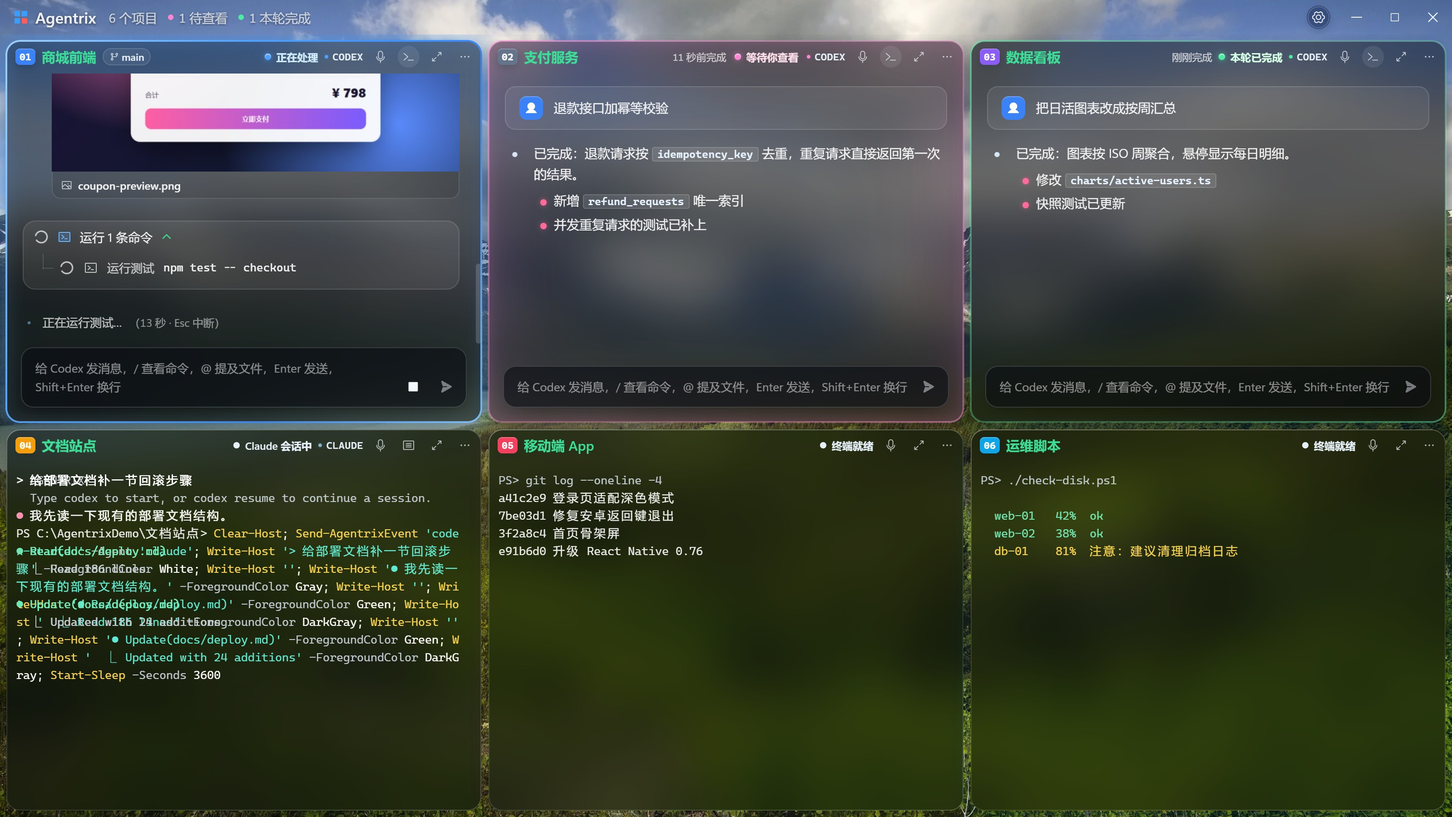
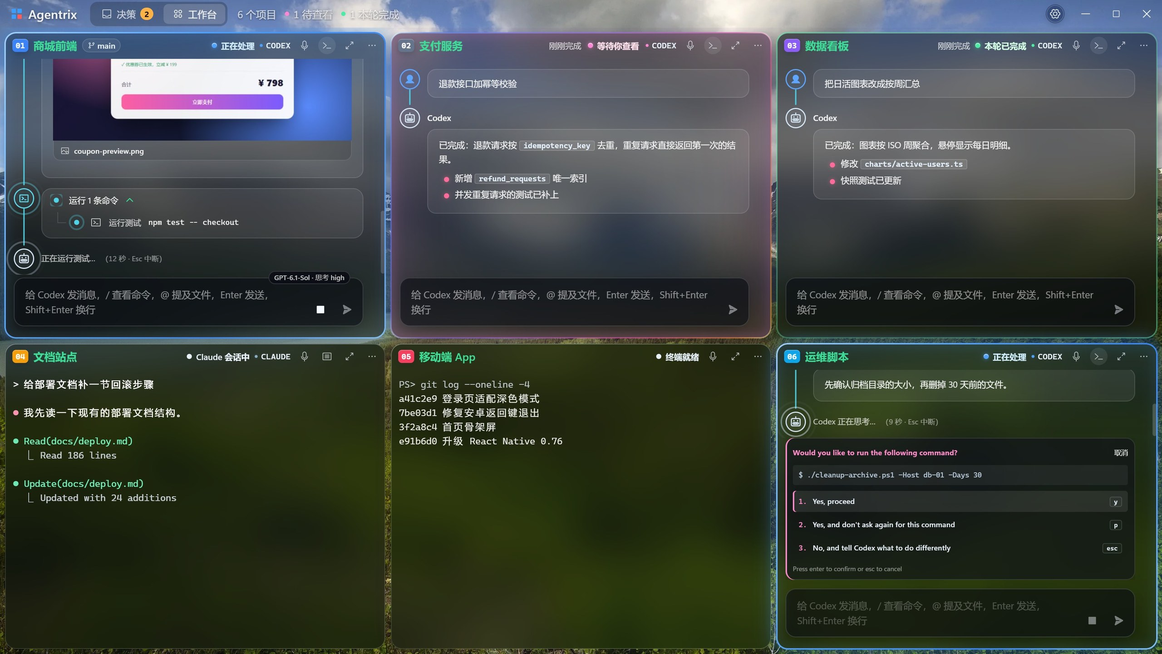
Release 1.2.16: no Escape at a working Claude, pictures copied from web pages paste anywhere, a crisper timeline
- Sending from the reading view could press Escape at a working Claude Code, interrupting its round, then say a
  command's dialog was still open. Its input was not recognised (a long draft wraps over indented rows, which a
  dictated message often is), and a dialog's key hint quoted in the conversation ("esc to cancel") was taken for an
  open dialog. Now Claude's input is recognised however many rows its draft wraps over, a dialog's hints count only
  in the bottom rows, and nothing presses Escape at a Claude that is working. A leftover draft is cleared row by row
  until the input is empty, so the next message is never merged with the rest of it.
- Copy image in a web page's preview copies the picture's own bytes (from the project's preview, a data URL or the
  web; WebP, GIF, SVG and AVIF decoded by Chromium) as an image every program pastes. Chromium's copy by the point
  clicked found nothing inside the page's frame.
- The timeline has no glow: the nodes, the line and the running marks have hard edges.
- README: the decision page with its own screenshot, the timeline, the activity pane's usage and reset button,
  queued messages, the editor's keys and draggable splits; screenshots taken again (the demo's ops project waits
  for an approval).

diff --git a/src/features/reading/reading-flow.css b/src/features/reading/reading-flow.css
@@ -6,14 +6,14 @@
   --flow-ink: var(--ink, #f2f7fc); --flow-muted: var(--ink-secondary, #b9c8d8); --flow-faint: var(--ink-faint, rgba(255, 255, 255, .5));
   --flow-ok: var(--accent-green, #3ddc97); --flow-fail: #ff7b72; --flow-lead: #6cb4ff; --flow-avatar: #3b82f6;
   --flow-claude: #e8875f; --flow-codex: #d7e6f5;
-  --flow-rail: #4fd3e8; --flow-rail-glow: rgba(79, 211, 232, .45); --flow-step: #5fd8ec;
+  --flow-rail: #4fd3e8; --flow-step: #5fd8ec;
   --flow-user: #5ea6ff;
   --step-time: calc(36px * var(--reading-text)); --step-node: 28px; --step-gap: 10px;
 }
 :root:is([data-theme="mono-amber"], [data-theme="mono-amber-dark"]) .reading-view {
   --flow-card: var(--theme-hover); --flow-line: var(--theme-line); --flow-ink: var(--theme-ink); --flow-muted: var(--theme-muted); --flow-faint: var(--theme-muted);
   --flow-ok: var(--theme-ink); --flow-fail: var(--mono-alert-ink); --flow-lead: var(--theme-ink); --flow-avatar: var(--theme-ink); --flow-codex: var(--theme-ink); --flow-claude: var(--mono-orange);
-  --flow-rail: var(--theme-line); --flow-rail-glow: transparent; --flow-step: var(--theme-ink); --flow-user: var(--theme-ink);
+  --flow-rail: var(--theme-line); --flow-step: var(--theme-ink); --flow-user: var(--theme-ink);
 }
 
 /* A step: its time, its node on the line, then what it is. The line runs from each node's foot to the next one's head
@@ -21,15 +21,16 @@
 .reading-scroll { container-type: inline-size; }
 .reading-step { position: relative; display: grid; grid-template-columns: var(--step-time) var(--step-node) minmax(0, 1fr); column-gap: var(--step-gap); align-items: start; }
 .reading-step::before { content: ''; position: absolute; left: calc(var(--step-time) + var(--step-gap) + var(--step-node) / 2 - 1px); top: var(--step-node); bottom: -10px; width: 2px;
-  border-radius: 1px; background: var(--flow-rail); box-shadow: 0 0 8px var(--flow-rail-glow); opacity: .75; }
+  border-radius: 1px; background: var(--flow-rail); opacity: .85; }
 .reading-step:not(:has(~ .reading-step))::before { display: none; }
 .reading-step > time { align-self: start; padding-top: 6px; text-align: right; font: 600 calc(12.5px * var(--reading-text))/1.5 var(--font-ui); color: var(--flow-ink); font-variant-numeric: tabular-nums; white-space: nowrap; }
 .reading-step > time.is-quiet { font-weight: 500; opacity: .5; }
-/* Each node a hollow ring: the wallpaper shows through it (no dark fill), a hairline rim, a faint glow and the glyph all
-   in the colour of what it is (blue you, warm orange Claude, cool white Codex, cyan a step). */
+/* Each node a hollow ring: the wallpaper shows through it (no dark fill), a hairline rim and the glyph in the colour of
+   what it is (blue you, warm orange Claude, cool white Codex, cyan a step). No glow anywhere on the line: every edge is
+   hard, so nothing looks hazy over the wallpaper. */
 .reading-node { --node-tint: var(--flow-step); position: relative; z-index: 1; display: grid; place-items: center; width: var(--step-node); height: var(--step-node); border-radius: 50%;
   color: var(--node-tint); background: color-mix(in srgb, var(--node-tint) 7%, transparent);
-  box-shadow: inset 0 0 0 1.5px var(--node-tint), 0 0 10px color-mix(in srgb, var(--node-tint) 32%, transparent); }
+  box-shadow: inset 0 0 0 1.5px var(--node-tint); }
 .reading-node > svg { display: block; shape-rendering: geometricPrecision; }
 .reading-step.is-user .reading-node { --node-tint: var(--flow-user); }
 .reading-step.is-claude .reading-node { --node-tint: var(--flow-claude); }
@@ -37,14 +38,12 @@
 .reading-spark line { stroke: currentColor; stroke-width: 2.4; stroke-linecap: round; }
 /* A node whose steps still run sends soft rings out from its rim, one after another, fading as they spread. Claude's
    spark instead blooms like Claude Code's own ✻ spinner: all its rays burst out from the hub and draw slowly back, the
-   slanted ones a beat behind, its glow swelling with them, like a small firework. One that failed is marked red. */
+   slanted ones a beat behind, like a small firework. One that failed is marked red. */
 .reading-step.is-running .reading-node::before, .reading-step.is-running .reading-node::after { content: ''; position: absolute; inset: 0; border-radius: 50%;
   box-shadow: 0 0 0 1.5px var(--node-tint); opacity: 0; pointer-events: none; animation: reading-node-ripple 2.4s cubic-bezier(.2, .6, .35, 1) infinite; }
 .reading-step.is-running .reading-node::after { animation-delay: 1.2s; }
 @keyframes reading-node-ripple { 0% { transform: scale(1); opacity: .75; } 100% { transform: scale(1.9); opacity: 0; } }
 .reading-step.is-claude.is-running .reading-node::before, .reading-step.is-claude.is-running .reading-node::after { content: none; }
-.reading-step.is-claude.is-running .reading-node { animation: reading-node-glow 1.8s ease-in-out infinite; }
-@keyframes reading-node-glow { 30% { box-shadow: inset 0 0 0 1.5px var(--node-tint), 0 0 20px color-mix(in srgb, var(--node-tint) 60%, transparent); } }
 .reading-step.is-running .reading-spark line { transform-box: view-box; transform-origin: 12px 12px; vector-effect: non-scaling-stroke; animation: reading-spark-bloom 1.8s infinite; }
 .reading-step.is-running .reading-spark g:nth-child(even) line { animation-delay: .12s; }
 @keyframes reading-spark-bloom {
@@ -57,8 +56,8 @@
 /* The working line ends the timeline beside its node, without a mark of its own. */
 .reading-step.is-working .reading-status { margin: 5px 0 0; }
 .reading-step .reading-status-mark { display: none; }
-:root[data-motion="off"] .reading-step.is-running :is(.reading-node, .reading-node::before, .reading-node::after, .reading-spark line) { animation: none; }
-@media (prefers-reduced-motion: reduce) { :root[data-motion="system"] .reading-step.is-running :is(.reading-node, .reading-node::before, .reading-node::after, .reading-spark line) { animation: none; } }
+:root[data-motion="off"] .reading-step.is-running :is(.reading-node::before, .reading-node::after, .reading-spark line) { animation: none; }
+@media (prefers-reduced-motion: reduce) { :root[data-motion="system"] .reading-step.is-running :is(.reading-node::before, .reading-node::after, .reading-spark line) { animation: none; } }
 /* A narrow card keeps the line and its nodes, not the times. */
 @container (max-width: 520px) {
   .reading-step { grid-template-columns: var(--step-node) minmax(0, 1fr); column-gap: 10px; }
@@ -107,7 +106,7 @@
 .reading-tools-caret { flex: none; color: var(--flow-ok); }
 .reading-step-state { flex: none; color: var(--flow-ok); }
 .reading-step-state.is-running { position: relative; display: grid; place-items: center; width: 17px; height: 17px; color: var(--flow-rail); }
-.reading-step-state.is-running::before { content: ''; width: 7px; height: 7px; border-radius: 50%; background: currentColor; box-shadow: 0 0 6px currentColor; }
+.reading-step-state.is-running::before { content: ''; width: 7px; height: 7px; border-radius: 50%; background: currentColor; }
 .reading-step-state.is-running::after { content: ''; position: absolute; inset: 3px; border-radius: 50%; box-shadow: 0 0 0 1.5px currentColor; opacity: 0; animation: reading-node-ripple 2s cubic-bezier(.2, .6, .35, 1) infinite; }
 :root[data-motion="off"] .reading-step-state.is-running::after { animation: none; }
 @media (prefers-reduced-motion: reduce) { :root[data-motion="system"] .reading-step-state.is-running::after { animation: none; } }

diff --git a/src/features/reading/ReadingView.tsx b/src/features/reading/ReadingView.tsx
@@ -7,7 +7,7 @@ import { actionText, stepVerb } from '../agents/action-text';
 import { dictateInto } from '../voice/voice-input';
 import { readScreen, useScreen } from '../terminal/terminal-screen';
 import { parseAgentScreen } from '../agents/agent-screen';
-import { cliCloseKey, cliDialogShown, cliFooter, cliHistory, cliInputDraft, hasCliInput, isAtPrompt, isCliIdle, isSideConversation } from './cli-panel';
+import { claudeAtWork, cliCloseKey, cliDialogShown, cliFooter, cliHistory, cliInputDraft, hasCliInput, isAtPrompt, isCliIdle, isSideConversation } from './cli-panel';
 import { ReadingWelcome } from './ReadingWelcome';
 import { ReadingChoice } from './ReadingChoice';
 import { ReadingQuestion } from './ReadingQuestion';
@@ -369,8 +369,10 @@ export function ReadingView({ projectId, terminal, remote = false, autoFocus, on
     const look = (first = false) => {
       const current = readScreen(terminal.id);
       if (!current) return { key: null, closed: true };
-      const parsed = parseAgentScreen(agent, current.rows), key = cliCloseKey(agent, current.rows, parsed, first ? command : undefined, cli.panel?.rows);
-      return { key, closed: !key && (!untilInput || hasCliInput(agent, current.rows, parsed)) };
+      const parsed = parseAgentScreen(agent, current.rows);
+      // Escape at a Claude that is working interrupts its round: what looks like a dialog then is left alone.
+      const key = claudeAtWork(agent, current.rows) ? null : cliCloseKey(agent, current.rows, parsed, first ? command : undefined, cli.panel?.rows);
+      return { key, closed: !key && (!untilInput || hasCliInput(agent, current.rows, parsed) || claudeAtWork(agent, current.rows)) };
     };
     let state = look(true);
     if (!state.key) return true;
@@ -454,7 +456,7 @@ export function ReadingView({ projectId, terminal, remote = false, autoFocus, on
       return;
     }
     if (left && pending.some(prompt => sameMessage(prompt.text, left))) { window.agentrix.writeTerminal(terminal.id, '\r'); await submitted(agentKind, left); }
-    else if (left) { window.agentrix.writeTerminal(terminal.id, '\x15'); await new Promise(resolve => setTimeout(resolve, 60)); }
+    else if (left) await clearInput(agentKind);
     if (text) {
       if (typed) { lastCommand.current = { text, at: Date.now() }; window.agentrix.writeTerminal(terminal.id, text); }
       else {
@@ -499,6 +501,11 @@ export function ReadingView({ projectId, terminal, remote = false, autoFocus, on
   };
   // What is typed in the CLI's own input right now.
   const inputDraft = (agent: 'claude' | 'codex') => { const current = readScreen(terminal.id); return current ? cliInputDraft(agent, current.rows, parseAgentScreen(agent, current.rows)) : ''; };
+  // Ctrl+U clears a row of the CLI's input: Claude Code clears only the visual row of a long draft wrapped over several,
+  // so it is pressed again until the input is empty (a few more than the rows, at most).
+  const clearInput = async (agent: 'claude' | 'codex') => {
+    for (let tries = 0; tries < 30 && inputDraft(agent); tries++) { window.agentrix.writeTerminal(terminal.id, '\x15'); await new Promise(resolve => setTimeout(resolve, 80)); }
+  };
   // A message is sent once it has left the CLI's input. An Enter the CLI did not take (it arrived while the CLI was
   // busy redrawing, compacting or taking the paste) leaves it there: Enter again, a few times.
   const submitted = async (agent: 'claude' | 'codex', text: string) => {
@@ -575,7 +582,8 @@ export function ReadingView({ projectId, terminal, remote = false, autoFocus, on
     // sent with this message, and once pictures are in it Ctrl+U would take them too. One of ours still waiting stays.
     const agentKind = terminal.agent === 'claude' ? 'claude' : 'codex', left = !images.length && !remote ? inputDraft(agentKind) : '';
     const clearFirst = !!left && !pending.some(prompt => sameMessage(prompt.text, left));
-    if (clearFirst) window.agentrix.writeTerminal(terminal.id, '\x15');
+    // The clipboard is read during the event; clearing the input and pressing the paste key follow it.
+    const cleared = clearFirst ? clearInput(agentKind) : Promise.resolve();
     // Over SSH the CLI cannot reach this computer's clipboard: the picture goes over as a file on that computer, whose
     // path joins the message when it is sent (serverPictures).
     if (remote) {
@@ -590,7 +598,7 @@ export function ReadingView({ projectId, terminal, remote = false, autoFocus, on
       return;
     }
     const pasteKey = terminal.agent === 'claude' ? '\x1bv' : '\x16';
-    if (clearFirst) setTimeout(() => window.agentrix.writeTerminal(terminal.id, pasteKey), 60);
+    if (clearFirst) void cleared.then(() => setTimeout(() => window.agentrix.writeTerminal(terminal.id, pasteKey), 60));
     else window.agentrix.writeTerminal(terminal.id, pasteKey);
     // The agent takes the picture from the clipboard; a copy is kept here to show in the message, small (a 4K
     // screenshot decoded at full size costs tens of megabytes per copy).

diff --git a/src/features/reading/cli-panel.ts b/src/features/reading/cli-panel.ts
@@ -27,9 +27,10 @@ const prompt = (agent: ScreenAgent, row: string) => {
   return (match[1] ?? '').trim();
 };
 
-// A historical prompt is not an input area. Claude needs both surrounding rules; Codex needs its footer right under it
-// (a long draft wraps over a few rows first): the prompt Codex pins to its top row, over a view that took the input's
-// place (/plugins), has none.
+// A historical prompt is not an input area. Claude needs both surrounding rules, a long draft wrapping over indented
+// rows before the closing one (a dictated message left there unsent); Codex needs its footer right under it (a long
+// draft wraps over a few rows first): the prompt Codex pins to its top row, over a view that took the input's place
+// (/plugins), has none.
 function cliInputArea(agent: ScreenAgent, rows: string[], screen: AgentScreen) {
   const status = screen.status;
   const hasFooter = !!(status.model || status.mode || status.context || status.effort || status.notes.length);
@@ -37,10 +38,14 @@ function cliInputArea(agent: ScreenAgent, rows: string[], screen: AgentScreen) {
     const text = prompt(agent, rows[index]);
     if (text === null) continue;
     if (agent === 'claude') {
-      if (!rule(rows[index - 1] ?? '') || !rule(rows[index + 1] ?? '')) continue;
+      if (!rule(rows[index - 1] ?? '')) continue;
+      let end = index + 1;
+      while (end < rows.length && end - index <= 24 && !rule(rows[end]) && /^ {2}\S/.test(rows[end])) end++;
+      if (!rule(rows[end] ?? '')) continue;
       // Claude Code 2.1.296 draws its effort right over the input box ("◉ xhigh · /effort"): part of it, never output.
       const start = /^\s*[●◉]\s+\S+\s+·\s+\/effort\b/.test(rows[index - 2] ?? '') ? index - 2 : index - 1;
-      return { row: index, start, footer: index + 2, text, hasFooter };
+      const draft = [text, ...rows.slice(index + 1, end).map(row => row.trim())].join(' ').trim();
+      return { row: index, start, footer: end + 1, text: draft, hasFooter };
     }
     if (hasFooter && rows.slice(index + 1, index + 14).some(codexFooterRow)) return { row: index, start: index, footer: index + 1, text, hasFooter };
   }
@@ -79,18 +84,23 @@ export function hasCliInput(agent: ScreenAgent, rows: string[], screen: AgentScr
 // working line alone means it is busy answering; a dialog opened during a round keeps that line above it, and its own
 // "Esc to cancel" hint tells it apart.
 const dialogHint = (row: string) => /\besc to (?:cancel|close|exit|go back|dismiss)\b/i.test(row);
+// A dialog draws its key hints in its own last rows, at the bottom of the screen; the same words higher up are the
+// conversation (a message quoting them, a command's output), never a dialog.
+const hintAtBottom = (rows: string[]) => rows.filter(row => row.trim()).slice(-8).some(dialogHint);
 function cliDialogOpen(agent: ScreenAgent, rows: string[], screen: AgentScreen): boolean {
   if (agent === 'codex' && codexDialog(rows)) return true;
   const input = cliInputArea(agent, rows, screen);
   if (agent === 'codex' && input && codexPopupBelow(rows, input).length) return true;
   if (input || !rows.some(row => row.trim())) return false;
-  return !(agent === 'claude' && claudeWorking(rows)) || rows.some(dialogHint);
+  return !(agent === 'claude' && claudeWorking(rows)) || hintAtBottom(rows);
 }
 
 // A dialog open on screen whoever opened it (left open in the terminal, or opened while its popup was being put away),
 // told by its own key hints so that an input this parser misses is never taken for one: a message typed now would
 // land in it.
-export const cliDialogShown = (agent: ScreenAgent, rows: string[], screen: AgentScreen) => cliDialogOpen(agent, rows, screen) && rows.some(dialogHint);
+export const cliDialogShown = (agent: ScreenAgent, rows: string[], screen: AgentScreen) => cliDialogOpen(agent, rows, screen) && hintAtBottom(rows);
+// Claude at work: Escape there interrupts the round, so nothing presses it to close a dialog it might show.
+export const claudeAtWork = (agent: ScreenAgent, rows: string[]) => agent === 'claude' && claudeWorking(rows);
 
 // Codex's /side opens a side conversation that only Ctrl+C leaves; Escape there tries to edit the last prompt.
 // Codex refuses /side in a conversation with nothing in it yet ("'/side' is unavailable until …"): then no side

diff --git a/src/features/guide/guide.ts b/src/features/guide/guide.ts
@@ -1,7 +1,7 @@
 // What the usage guide's last page lists for this release. Update it with every version: the guide opens on
 // first use and after each update, on this page for people who are updating.
 export const WHATS_NEW: string[] = [
-  '阅读视图左右留白更均衡：左边的时间和节点更紧凑，右边留出更多空间，消息框和卡片左右对齐。',
-  '运行中的节点不再转圈：Claude 的星芒像 Claude Code 自己的 ✻ 一样绽放、收回，其他步骤向外扩散柔和的光圈。',
-  '鼠标划过时间轴上的条目时，条目会轻快地跳一下；滚动时不会跳。',
+  '修复：在阅读视图里发消息（尤其是带截图或用语音说的长消息）时，可能误按 Esc 打断正在工作的 Claude Code，并提示「命令的对话框没有关闭」。',
+  '在 HTML 页面里「复制图片」后，可以粘贴到微信、Word 等其他程序里。',
+  '时间轴更清晰：节点、竖线和运行中的标记去掉了光晕，边缘都是实线。',
 ];

diff --git a/README.en.md b/README.en.md
@@ -30,12 +30,12 @@
 
 <table>
   <tr>
-    <td width="33%" valign="top"><h3>🧩 Many at once</h3>Every project is a card with a real terminal. Codex and Claude Code work at the same time, local and SSH projects on the same grid.</td>
-    <td width="33%" valign="top"><h3>💡 Lights up when done</h3>It reads the agents' own session records: 🔵 working, 🩷 done and waiting, 🟢 seen. One alert per round, with a system notification.</td>
-    <td width="33%" valign="top"><h3>📖 Terminal as a document</h3>Answers laid out as documents, tool calls folded to a line, slash commands, permissions and questions as popups and cards you click.</td>
+    <td width="33%" valign="top"><h3>🧭 Decide first</h3>Everything across your projects that needs your call on one page: approvals, questions, choices, sign-ins, rounds to review. An answer goes only when you confirm it.</td>
+    <td width="33%" valign="top"><h3>🧩 Many at once</h3>Every project is a card with a real terminal. Codex and Claude Code work at the same time: 🔵 working, 🩷 done and waiting, 🟢 seen, one alert per round.</td>
+    <td width="33%" valign="top"><h3>📖 Terminal as a timeline</h3>The conversation as a timeline: each prompt, answer and group of tool calls a node; pictures, pages and videos show right in the answer.</td>
   </tr>
   <tr>
-    <td valign="top"><h3>🖼 See what it made</h3>Pictures, web pages, videos and documents an agent produces show right under its answer; a click opens them full size without leaving the conversation.</td>
+    <td valign="top"><h3>📊 Usage at a glance</h3>The activity pane shows the model route, how much context is left and the 5-hour and weekly limits; a used-up limit resets in one click, after a 10-second countdown you can cancel.</td>
     <td valign="top"><h3>✅ Keep what matters</h3>Review changes hunk by hunk the way Git shows them: keep what you want, revert the rest, no <code>git add -p</code> to remember.</td>
     <td valign="top"><h3>🎙 Just say it</h3><kbd>Ctrl</kbd>+<kbd>T</kbd>, talk, Enter. Recognition runs offline on your machine; audio never leaves it.</td>
   </tr>
@@ -75,7 +75,9 @@ flowchart LR
 
 ### 🧭 Decide first, then dive in
 
-Agentrix opens on **Decide**: everything across your projects that needs your call, in one place — approvals, questions, choices, sign-ins — each titled by what it would do ("Run a command: npm run migrate") with the command itself. An answer is sent only when you confirm it, after checking the question has not changed; or put it off, or open the source. Beside the decisions, a column shows what every session is doing and waiting on, all on one page. Decide · Workbench in the title bar switch at any time: the workbench is the project grid.
+<img src="docs/images/decisions.jpg" alt="Decide: a card asks to approve running ./cleanup-archive.ps1 -Host db-01 -Days 30, with the payments round waiting for review under it; a column on the right lists what every session is doing" width="100%" />
+
+Agentrix opens on **Decide**: everything across your projects that needs your call, as a stack of cards — approvals, questions, choices, sign-ins, and rounds of work handed in for review — each titled by what it would do ("Run a command: ./cleanup-archive.ps1 …") with the command itself. An answer is sent only when you confirm it, after checking the question has not changed; or put it off, or open the source. A column beside it shows what every session is doing and waiting on, and the box below tells Agentrix what to do next (paste a screenshot into it too). Decide · Workbench in the title bar switch at any time: the workbench is the project grid.
 
 ### 🧩 Direct every project from one screen
 
@@ -89,15 +91,18 @@ State comes from the rounds Codex and Claude Code record themselves, not from gu
 
 ### 📖 The terminal, laid out again
 
-<img src="docs/images/reading-view.jpg" alt="Reading view: the Codex answer laid out as a document with its plan, a code block and folded tool calls, and the design mock the answer mentions shown right under it; the activity pane on the right lists every step" width="100%" />
+<img src="docs/images/reading-view.jpg" alt="Reading view: the conversation as a timeline, each prompt, answer and group of tool calls a node on the line, the design mock the answer mentions shown in its card; the activity pane on the right shows the model route, context, usage and the reset button" width="100%" />
 
-Switch any Claude Code or Codex conversation to the **reading view**: headings, lists, tables, code blocks with a Copy button, tool calls folded into one line. The box at the bottom writes straight into the real terminal underneath, and the terminal is one click away.
+Switch any Claude Code or Codex conversation to the **reading view**: a timeline where your prompts, its answers and each group of tool calls are nodes on a line, their times beside them. The nodes are hollow rings in the colour of who is speaking (blue you, an orange spark Claude, white Codex, cyan a step), and a running one never spins: Claude's spark blooms and draws back like its own ✻, other steps send out soft rings. Headings, lists, tables and code blocks with a Copy button sit on frosted cards, tool calls fold into a pill naming the files they changed, and an item hops when the pointer passes over it. The box at the bottom writes straight into the real terminal underneath, and the terminal is one click away.
 
 - **What it made is in the answer.** Pictures, web pages, videos and Markdown an agent writes or names appear under its answer; a click opens the full picture, page or document in a popup over the current view (Esc closes it), never jumping into the project page or another program. Agentrix tells the agents so when it starts them, so they show you an image instead of saying a terminal can only show text.
 - **CLI output is rendered again, too.** Slash commands such as `/usage`, `/status` and `/context` open in a popup: frames go, figures line up in tables, usage becomes progress bars. Type `/` for every command, `@` to mention a project file.
 - **Questions and confirmations become cards.** Permission prompts, pickers like `/model`, and questions from Claude Code (AskUserQuestion) and Codex (Plan mode) are cards you click; what the agent is doing is written at the end of the conversation, as in its CLI, with a timer and Esc to interrupt.
+- **Keep talking while it works.** A message sent mid-round is marked *delivered and queued*: the agent reads it once the current step is done, and it is never sent twice or taken for undelivered.
 
-The **activity pane** keeps the round's calls, completions, failures and time at the top; its live feed names each step for what it is (the command as typed, the skill used, the MCP tool called, the files created or changed), and below it are the tasks being worked on and waiting.
+The **activity pane** starts with the tasks being worked on and waiting; below are the model route (agent › service › model, with the reasoning effort and speed mode), the context length (used / window) and usage: tokens this round and this conversation, and the 5-hour and weekly limits with their reset times (Codex's from its session records, Claude Code's from its own cached `/usage`, or CodePulse's record when that is fresher).
+
+At the bottom is the **Reset limit** button: a click starts a 10-second countdown that *Cancel* or Esc stops at any time; only then does the agent get its own command (Claude Code's `/limit-reset`, once a week for the 5-hour limit; Codex's `/usage`, where you pick and confirm). Agentrix itself never calls a reset.
 
 > The reading view currently supports **Claude Code** and **Codex**. OpenCode, Gemini CLI and other command-line agents run as usual in the card's terminal.
 
@@ -122,7 +127,8 @@ Press <kbd>Ctrl</kbd>+<kbd>T</kbd> and talk to the current terminal; Enter sends
 
 - **Pick up where you left off**: terminals and Codex / Claude Code sessions come back on start, and an interrupted task carries on.
 - **SSH projects**: reuse your VS Code Remote-SSH hosts; terminals, files, Git and previews all run over SSH, and pages and pictures made on a machine on your network preview too.
-- **Files at hand**: a folder tree, an auto-saving editor, previews of images, web pages, video and Markdown; <kbd>Ctrl</kbd>+click (<kbd>⌘</kbd>+click on macOS) a path in the terminal to open it in a popup.
+- **Files at hand**: a folder tree, an auto-saving editor (VS Code's editing keys, <kbd>Ctrl</kbd>+<kbd>F</kbd> to find), previews of images, web pages, video and Markdown, and a right-click to open a file's location; <kbd>Ctrl</kbd>+click (<kbd>⌘</kbd>+click on macOS) a path in the terminal to open it in a popup; an enlarged picture fits the window, a click shows it at its own size to drag around.
+- **Splits you drag**: several terminals for one project side by side, with dividers you drag to resize.
 - **Clear to read**: dark frosted glass with white text over a wallpaper at its own brightness; switch to the **solid** surface for the sharpest text. Two minimal themes, light *Monochrome amber* and dark *White, Black & Amber*.
 - **English and Chinese, remappable shortcuts, automatic updates on Windows**, and a guided tour the first time you open it.
 
@@ -178,6 +184,13 @@ Agentrix itself **collects nothing and sends no analytics**. It only contacts Gi
 <summary><strong>How is this different from a few terminals in an IDE?</strong></summary>
 
 The terminals are the same; the difference is that Agentrix **knows what state each agent is in**. It reads the session records of Codex and Claude Code to tell working, done and interrupted apart, and lays answers, command results, pictures, pages and changes out for you to read. It is designed for directing several AI tasks at once, not for one person editing one file.
+
+</details>
+
+<details>
+<summary><strong>Does Reset limit reset anything by itself?</strong></summary>
+
+No. A reset spends one of the plan's few, so the button first counts down 10 seconds that you can cancel at any time; even then it only sends the agent its own command, and Claude Code or Codex carries out the reset. Agentrix calls no reset service and never sends that command unless you clicked.
 
 </details>
 

diff --git a/README.md b/README.md
@@ -30,12 +30,12 @@
 
 <table>
   <tr>
-    <td width="33%" valign="top"><h3>🧩 一屏多开</h3>每个项目一张卡片、一个真实终端。Codex 和 Claude Code 同时开工，本地和 SSH 远程项目同在一张网格。</td>
-    <td width="33%" valign="top"><h3>💡 做完就亮</h3>读取助手自己的会话记录：🔵 处理中、🩷 做完等你看、🟢 已看过。每一轮只提醒一次，还会发系统通知。</td>
-    <td width="33%" valign="top"><h3>📖 终端变文档</h3>回答排成文档，工具调用折成一行，斜杠命令、权限确认和提问都变成可点的弹窗与卡片。</td>
+    <td width="33%" valign="top"><h3>🧭 先决定</h3>所有项目里等你拍板的事集中在一页：审批、提问、选择、登录、交付审查，选好点确认才发送。</td>
+    <td width="33%" valign="top"><h3>🧩 一屏多开</h3>每个项目一张卡片、一个真实终端。Codex 和 Claude Code 同时开工，🔵 处理中、🩷 做完等你看、🟢 已看过，每一轮只提醒一次。</td>
+    <td width="33%" valign="top"><h3>📖 终端变时间轴</h3>对话排成时间轴：提问、回答、每组工具调用各是一个节点；图片、网页、视频直接显示在回答里。</td>
   </tr>
   <tr>
-    <td valign="top"><h3>🖼 产物看得见</h3>助手生成的图片、网页、视频、文档直接出现在回答下面，点开就是大图和网页，不用离开对话。</td>
+    <td valign="top"><h3>📊 用量一目了然</h3>活动栏写出模型路由、上下文还剩多少、5 小时和每周额度；额度用完可以一键重置，倒数 10 秒随时取消。</td>
     <td valign="top"><h3>✅ 逐块取舍</h3>按 Git 方式逐块看改动：留下想要的，还原其余的，不用记 <code>git add -p</code>。</td>
     <td valign="top"><h3>🎙 开口即指令</h3><kbd>Ctrl</kbd>+<kbd>T</kbd> 说话、回车发送。识别在本机离线完成，录音不上传。</td>
   </tr>
@@ -75,7 +75,9 @@ flowchart LR
 
 ### 🧭 先决定，再进项目
 
-打开 Agentrix 先看到**决策**首页：所有项目里需要你拍板的事集中在一处——权限审批、提问、选择、登录，标题直接写出它要做什么（“运行命令：npm run migrate”），附上命令原文。选中答案后点确认才发送，发送前会再核对一次问题没变；也可以稍后处理或打开来源。决策页右侧一栏列出所有会话在做什么、等什么，一页看全；顶栏的「决策 · 工作台」随时切换，工作台是项目网格。
+<img src="docs/images/decisions.jpg" alt="决策页：一张卡片写着「运行命令：./cleanup-archive.ps1 -Host db-01 -Days 30」等你审批，下面一张是支付服务交付的这一轮等你审查；右侧一栏列出所有会话在做什么" width="100%" />
+
+打开 Agentrix 先看到**决策**首页：所有项目里需要你拍板的事排成一叠卡片——权限审批、提问、选择、登录，以及做完等你审查的一轮工作。标题直接写出它要做什么（“运行命令：./cleanup-archive.ps1 …”），附上命令原文。选中答案后点确认才发送，发送前会再核对一次问题没变；也可以稍后处理或打开来源。右侧一栏列出所有会话在做什么、等什么；下面的输入框直接告诉 Agentrix 接下来要做什么，可以粘贴截图。顶栏的「决策 · 工作台」随时切换，工作台是项目网格。
 
 ### 🧩 一屏指挥所有项目
 
@@ -89,15 +91,18 @@ flowchart LR
 
 ### 📖 终端，被重新排版
 
-<img src="docs/images/reading-view.jpg" alt="阅读视图：对话按时间轴排版，提示、回答和工具调用各是竖线上的一个节点，回答里提到的效果图直接显示在卡片里；右侧活动栏显示模型路由、上下文长度和用量" width="100%" />
+<img src="docs/images/reading-view.jpg" alt="阅读视图：对话按时间轴排版，提示、回答和工具调用各是竖线上的一个节点，回答里提到的效果图直接显示在卡片里；右侧活动栏显示模型路由、上下文长度、用量和重置额度按钮" width="100%" />
 
-把 Claude Code 或 Codex 的对话切换成**阅读视图**：按时间轴排版，你的提示、它的回答和每组工具调用都是竖线上的节点，标题、列表、表格、带「复制」按钮的代码块放在磨砂卡片里，工具调用折叠成一个胶囊并列出改过的文件。底部输入框直接写进下面的真实终端，随时切回终端。
+把 Claude Code 或 Codex 的对话切换成**阅读视图**：按时间轴排版，你的提示、它的回答和每组工具调用都是竖线上的节点，左边标出时间。节点是镂空细圈，按身份上色（你是蓝色，Claude 是橙色星芒，Codex 是白色，工具步骤是青色）；正在运行的节点不转圈——Claude 的星芒像它自己的 ✻ 一样绽放、收回，其他步骤向外扩散光圈。标题、列表、表格、带「复制」按钮的代码块放在磨砂卡片里，工具调用折叠成一个胶囊并列出改过的文件；鼠标划过条目时，它会轻快地跳一下。底部输入框直接写进下面的真实终端，随时切回终端。
 
 - **产物就在回答里。** 助手写出或提到的图片、网页、视频、Markdown 直接显示在回答下面；点一下在当前窗口弹出大图、网页或文档，Esc 关闭，不会跳进项目页，也不会打开别的程序。Agentrix 启动它们时会告诉它们这一点，所以它们会直接把图片「给你看」，而不是说「终端只能显示文字」。
 - **CLI 的输出也重新渲染。** `/usage`、`/status`、`/context` 等斜杠命令的结果以弹窗呈现：边框去掉，统计排成对照表，用量变成进度条。输入 `/` 列出全部命令，`@` 提及项目文件。
 - **提问和确认变成卡片。** 权限确认、`/model` 之类的选择，以及 Claude Code（AskUserQuestion）和 Codex（Plan 模式）向你提的问题，都是可以直接点选的卡片；它正在做什么也像 CLI 一样写在对话末尾，带计时和「Esc 中断」。
+- **干活时也能接着说。** 它工作时发的消息标成「已送达，排队中」，当前这一步做完它就会读到，不会重复发送，也不会被当成没送达。
 
-右侧**活动栏**顶部是正在处理和排队的任务；下面是模型路由（代理 › 接口 › 模型，以及思考强度和速度模式）、上下文长度（已用 / 窗口大小）和用量（本轮与本次对话的 token；Codex 另有 5 小时和每周额度及重置时间）。
+右侧**活动栏**顶部是正在处理和排队的任务；下面是模型路由（代理 › 接口 › 模型，以及思考强度和速度模式）、上下文长度（已用 / 窗口大小）和用量：本轮与本次对话的 token，以及 5 小时和每周额度与重置时间（Codex 读自它的会话记录，Claude Code 读自它自己缓存的 `/usage`，装了 CodePulse 时取更新的一份）。
+
+最下面是**重置额度**按钮：点一下先倒数 10 秒，期间随时可以点「取消」或按 Esc；倒数结束才把助手自己的命令发给它（Claude Code 用 `/limit-reset`，每周 1 次、重置 5 小时额度；Codex 打开 `/usage`，在里面选择并确认）。Agentrix 自己从不调用重置。
 
 > 阅读视图目前支持 **Claude Code** 和 **Codex**。OpenCode、Gemini CLI 等其他命令行助手照常在卡片的终端里运行。
 
@@ -122,7 +127,8 @@ flowchart LR
 
 - **重开即续上**：启动时恢复上次的终端和 Codex / Claude Code 会话，被打断的任务自动接着做。
 - **SSH 远程项目**：沿用 VS Code Remote-SSH 的主机配置，终端、文件、Git、预览都走 SSH，局域网电脑上生成的网页和图片同样能预览。
-- **文件就在手边**：目录树、自动保存的编辑器，图片、网页、视频、Markdown 直接预览；<kbd>Ctrl</kbd>+点击（macOS <kbd>⌘</kbd>+点击）终端里的路径，在弹窗里打开。
+- **文件就在手边**：目录树、自动保存的编辑器（VS Code 的编辑快捷键，<kbd>Ctrl</kbd>+<kbd>F</kbd> 查找），图片、网页、视频、Markdown 直接预览，右键可以打开文件所在位置；<kbd>Ctrl</kbd>+点击（macOS <kbd>⌘</kbd>+点击）终端里的路径，在弹窗里打开；放大的图片按窗口完整显示，单击看原始大小、拖动查看。
+- **分屏随手拖**：同一个项目开多个终端分屏，分隔线可以拖动调整大小。
 - **清晰的界面**：深色磨砂玻璃、白色正文，壁纸保持原画亮度；需要最锐利的文字可切换「实色」材质。另有「黑白橙」浅色和「白黑橙」深色两套简洁主题。
 - **中英双语、快捷键可改、Windows 自动更新**，第一次打开时会一步步带你上手。
 
@@ -178,6 +184,13 @@ Agentrix 本身**不收集任何数据，没有统计上报**。它只会访问 
 <summary><strong>和在 IDE 里开几个终端有什么不同？</strong></summary>
 
 终端还是那个终端，区别在于 Agentrix **知道每个 AI 助手处在什么状态**：它读取 Codex 和 Claude Code 的会话记录，准确判断这一轮是在处理、做完了还是被中断，并把回答、命令结果、图片网页和改动重新排版给你看。它是为「同时指挥多个 AI 任务」设计的，而不是为「一个人编辑一个文件」设计的。
+
+</details>
+
+<details>
+<summary><strong>「重置额度」会自动帮我重置吗？</strong></summary>
+
+不会。重置会用掉套餐里有限的次数，所以按钮按下后先倒数 10 秒，随时可以取消；倒数结束后也只是把助手自己的命令发给它，由 Claude Code 或 Codex 完成重置。Agentrix 不调用任何重置接口，也不会在你没点的时候发出这个命令。
 
 </details>
 

diff --git a/docs/usage.md b/docs/usage.md
@@ -244,20 +244,20 @@ curl -fsSL https://raw.githubusercontent.com/noeigenstate/Agentrix/main/scripts/
 
 可以在管道后的 `bash` 前设置这些变量：
 
-- `AGENTRIX_VERSION=1.2.15`：安装指定版本。
+- `AGENTRIX_VERSION=1.2.16`：安装指定版本。
 - `AGENTRIX_INSTALL_DIR=~/Applications`：指定安装目录。
 - `AGENTRIX_OPEN=0`：安装后不打开应用。
 
-例如，安装 1.2.15：
+例如，安装 1.2.16：
 
 ```bash
-curl -fsSL https://raw.githubusercontent.com/noeigenstate/Agentrix/main/scripts/install-macos.sh | AGENTRIX_VERSION=1.2.15 bash
+curl -fsSL https://raw.githubusercontent.com/noeigenstate/Agentrix/main/scripts/install-macos.sh | AGENTRIX_VERSION=1.2.16 bash
 ```
 
 如果已经下载了 ZIP，也可以用本地的安装脚本安装：
 
 ```bash
-bash install-macos.sh ~/Downloads/Agentrix-1.2.15-mac-arm64.zip
+bash install-macos.sh ~/Downloads/Agentrix-1.2.16-mac-arm64.zip
 ```
 
 应用使用临时签名（ad-hoc），没有 Apple Developer ID，也未经过 Apple 公证。如果用浏览器下载 DMG，再将应用拖到「应用程序」，首次打开时 macOS 会提示「无法验证开发者」。在「系统设置 › 隐私与安全性」中点一次「仍要打开」，或运行：

diff --git a/skills/cli-screen-capture/SKILL.md b/skills/cli-screen-capture/SKILL.md
@@ -88,3 +88,10 @@ An approval only shows after the model asks for a tool. Never use the real sign-
     `workspace_backend_origin`.
   - A throwaway CA given through `CODEX_CA_CERTIFICATE` makes the HTTPS part work.
   - It then stops at "invalid account routing override", so capture `/usage` from someone's real screen instead.
+- Keys sent to a CLI to close what looks like a dialog are dangerous: Escape at a working Claude Code interrupts its
+  round. A message quoting a dialog's hint (`esc to cancel`) sits in the conversation; a dialog's hints are in its own
+  last rows, at the bottom. And Claude's input box is not one row: a long draft wraps over rows indented two spaces
+  before the closing rule (Claude Code 2.1.301), and a pasted picture's chip sits in it too. When the input is not
+  recognised, the parser must not conclude "dialog". Reproduce with the real CLI: a stand-in API with a slow first
+  answer, a long message sent meanwhile, a picture attached by its path (pasted as text, so no clipboard is used),
+  and record every key written to the terminal.
